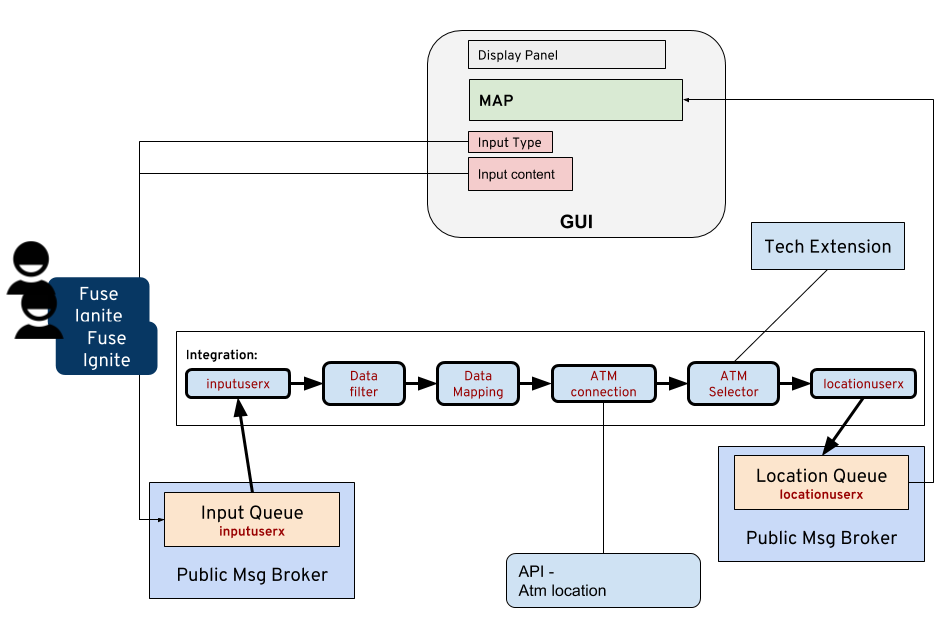
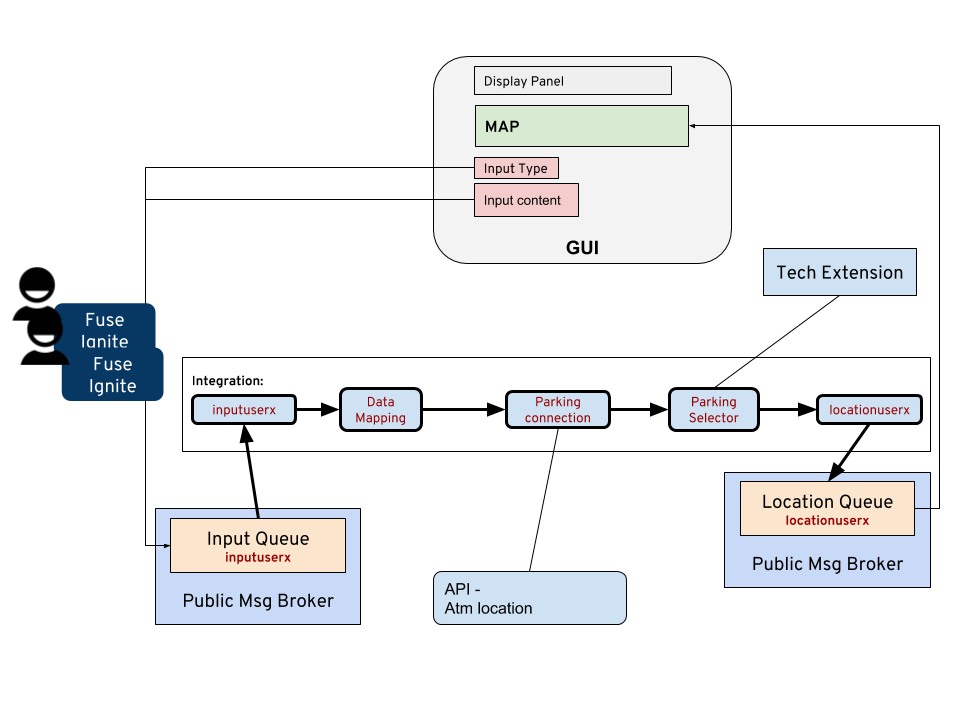
Simply Hack 2

diff --git a/README.md b/README.md
@@ -219,7 +219,7 @@ Publishing and receiving from announcement topic!
 
 -Instructor lead-
 
-Showing all ATM locations that is my prefered bank and has less then rate
+Showing all Parking locations has the most cheap rate
 
 ![Second Hack](docs/images/hack-02-01.png)
 
@@ -234,7 +234,7 @@ Showing all ATM locations that is my prefered bank and has less then rate
 
 - Add new integration
 
-- From internalbroker connection with following datashapes
+- From broker connection with following datashapes
 
 ```
 {
